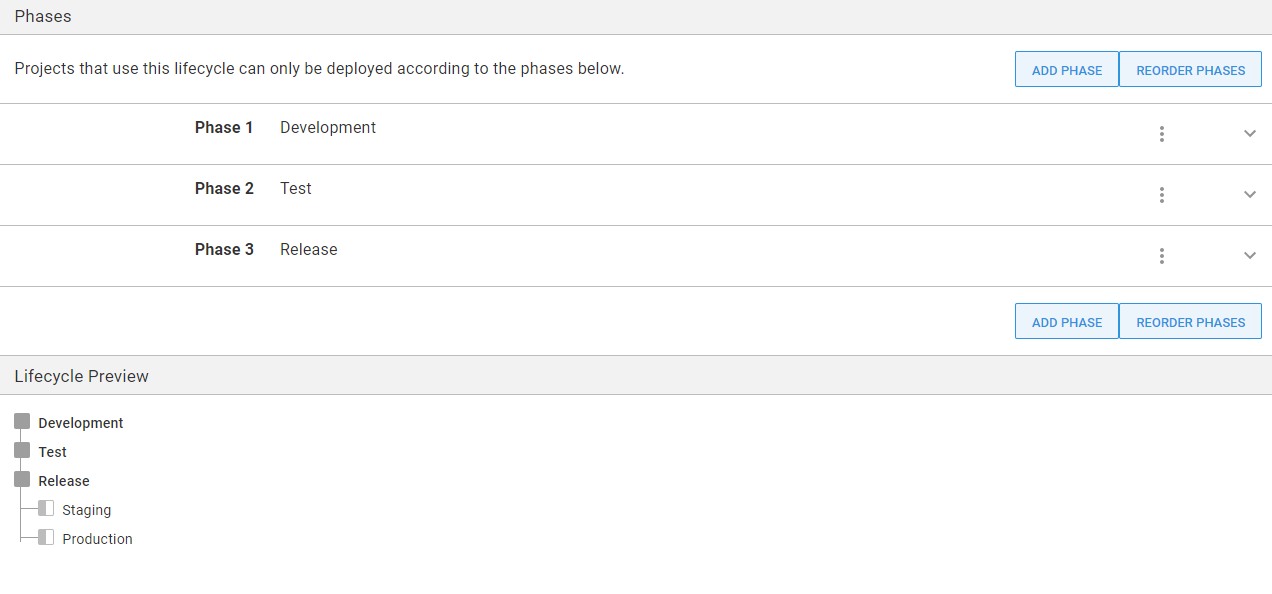
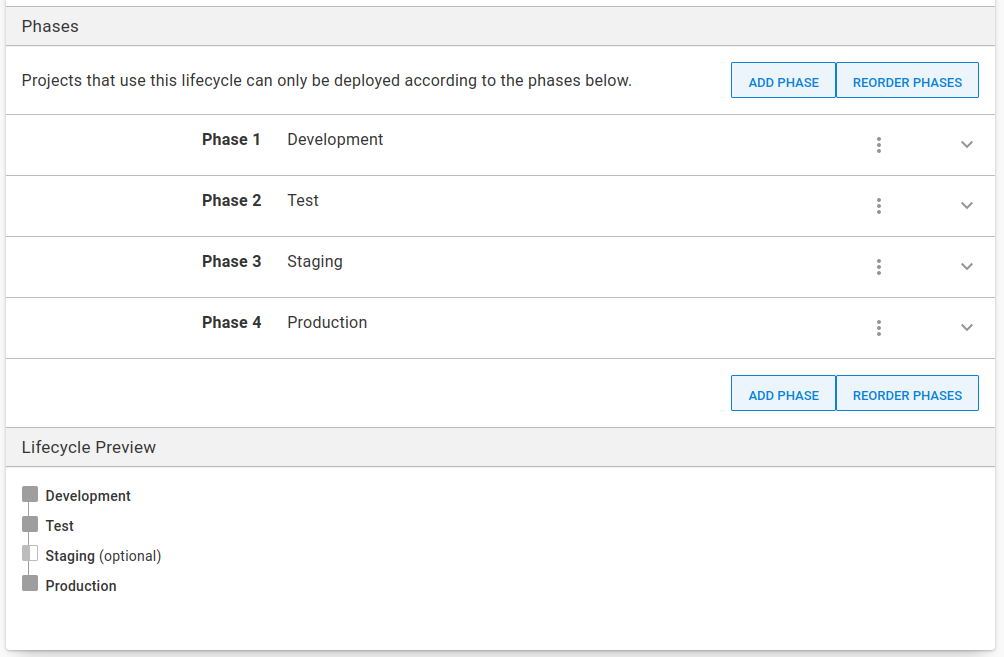
line edits

diff --git a/docs/tenants/guides/multi-tenant-saas-application/creating-new-project.md b/docs/tenants/guides/multi-tenant-saas-application/creating-new-project.md
@@ -1,19 +1,18 @@
 ---
 title: Creating the project
 description: Create the project used as part of a multi-tenant SaaS setup in Octopus Deploy.
-position: 30
+position: 20
 hideInThisSectionHeader: true
 ---
 
-The first step in this guide is to create a project that will be deployed to our tenants.
+In this section, we need to create a new project that will be deployed to our tenants.
 
 !include <tenants-create-project>
 
-Next, you need to make sure the project has [tenanted deployments](/docs/tenants/tenant-creation/tenanted-deployments.md) enabled
+3. Next, you need to make sure the project has [tenanted deployments](/docs/tenants/tenant-creation/tenanted-deployments.md) enabled
 
     ![](images/enable-tenanted-deployments.png "width=500")
 
+In the next step, we'll define the [Tenant Tag Set](/docs/tenants/guides/multi-tenant-saas-application/creating-tenant-tag-set.md) needed for this scenario.
 
-The next step will define the [Tenant tag set](/docs/tenants/guides/multi-tenant-saas-application/creating-new-project.md) needed for this scenario.
-
-<span><a class="btn btn-secondary" href="/docs/tenants/guides/creating-new-lifecycle">Previous</a></span>&nbsp;&nbsp;&nbsp;&nbsp;&nbsp;<span><a class="btn btn-success" href="/docs/tenants/guides/multi-tenant-saas-application/creating-project-template-variables.md">Next</a></span>
+<span><a class="btn btn-secondary" href="/docs/tenants/guides/creating-new-lifecycle">Previous</a></span>&nbsp;&nbsp;&nbsp;&nbsp;&nbsp;<span><a class="btn btn-success" href="/docs/tenants/guides/multi-tenant-saas-application/creating-tenant-tag-set">Next</a></span>

diff --git a/docs/tenants/guides/multi-tenant-saas-application/creating-new-tenants.md b/docs/tenants/guides/multi-tenant-saas-application/creating-new-tenants.md
@@ -1,11 +1,11 @@
 ---
 title: Creating new tenants
 description: Create tenants as part of a multi-tenant SaaS setup in Octopus Deploy.
-position: 50
+position: 40
 hideInThisSectionHeader: true
 ---
 
-Vet Clinic has four customers; an internal customer used for development and testing, and three external customers
+Vet Clinic has four customers; one internal customer used for development and testing, and three external customers
 
 - VetClinic Internal
 - Capital Animal Hospital
@@ -30,6 +30,6 @@ In the tenant overview, Click on **MANAGE TAGS** to edit which tags are associat
 
 Repeat this process for each of the tenants. 
 
-The next section covers the [Creating Template Variables](/docs/tenants/guides/multi-tenant-saas-application/creating-project-template-variables.md) needed for this scenario.
+The next step will define the [project template variables](/docs/tenants/guides/multi-tenant-saas-application/creating-project-template-variables.md) needed for the application.
 
-<span><a class="btn btn-secondary" href="/docs/tenants/guides/multi-tenant-saas-application/creating-tenant-tag-set">Previous</a></span>&nbsp;&nbsp;&nbsp;&nbsp;&nbsp;<span><a class="btn btn-success" href="/docs/tenants/guides/multi-tenant-saas-application/creating-project-template-variables.md">Next</a></span>
+<span><a class="btn btn-secondary" href="/docs/tenants/guides/multi-tenant-saas-application/creating-new-tenants">Previous</a></span>&nbsp;&nbsp;&nbsp;&nbsp;&nbsp;<span><a class="btn btn-success" href="/docs/tenants/guides/multi-tenant-saas-application/creating-project-template-variables">Next</a></span>

diff --git a/docs/tenants/guides/multi-tenant-saas-application/creating-new-lifecycle.md b/docs/tenants/guides/multi-tenant-saas-application/creating-new-lifecycle.md
@@ -1,19 +1,21 @@
 ---
 title: Creating a lifecycle
 description: Create lifecycle for SAAS application
-position: 20
+position: 10
 hideInThisSectionHeader: true
 ---
 
-In this section, we need to create a new [lifecycle](https://octopus.com/docs/releases/lifecycles) for our project.
+The first step in this guide is to create a new [lifecycle](https://octopus.com/docs/releases/lifecycles) for our project.
 
-To create Tenant Tags Sets navigate to **{{Library, Lifecycles, ADD LIFECYCLE}}**.
+To create a new Lifecycle, navigate to **{{Library, Lifecycles, ADD LIFECYCLE}}**.
 
-![](images/add-new-life-cycle.png "width=500")
+![](images/add-new-lifecycle.png "width=500")
 
 
-Give the **Lifecycle** a name, an optional description, and three phases. The lifecycle should ensure all release are deployed to development, test, then optionally to staging or into production. 
+Give the **Lifecycle** a name, an optional description, and four phases. The lifecycle should ensure all releases are deployed to Development, Test, *optionally* to Staging, then lastly into Production. 
 
 ![](images/creating-lifecycle.png "width=500") 
+
+In the next step, we'll [create the project](/docs/tenants/guides/multi-tenant-saas-application/creating-new-tenants.md) needed for this scenario.
 
 <span><a class="btn btn-secondary" href="/docs/tenants/guides/multi-tenant-saas-application">Previous</a></span>&nbsp;&nbsp;&nbsp;&nbsp;&nbsp;<span><a class="btn btn-success" href="/docs/tenants/guides/multi-tenant-saas-application/creating-new-project">Next</a></span>

diff --git a/docs/tenants/guides/multi-tenant-saas-application/creating-project-template-variables.md b/docs/tenants/guides/multi-tenant-saas-application/creating-project-template-variables.md
@@ -1,14 +1,13 @@
 ---
 title: Creating project template variables
 description: Create varibales for each tenant
-position: 30
+position: 50
 hideInThisSectionHeader: true
 ---
 
+Each customer has there own database and a unique name for everthing environment. To make this managable we can create [project template variables](/docs/tenants/tenant-variables.md#project-variables) for the database name.
 
-Each Customer has there own database and a unique name for everthing environment. To make this managable we can  [create project template variables](/docs/tenants/tenant-variables.md) for the database name.
-
-To create Project Template Variables navigate to **{{Projects, Projects, Variables, ADD TEMPLATE }}**.
+To create a Project Template navigate to **{{Projects, Projects, Variables, ADD TEMPLATE }}**.
 
 ![](images/creating-new-project-variable-templates.png "width=500")
 
@@ -17,5 +16,6 @@ Next, add a variable name, label, help text, control type and an optional Defaul
 
 ![](images/add-new-project-variable-template.png "width=500")
 
+The next step will define the [Tenant tag set](/docs/tenants/guides/multi-tenant-saas-application/creating-new-project.md) needed for this guide.
 
 <span><a class="btn btn-secondary" href="/docs/tenants/guides/multi-tenant-saas-application/creating-new-project">Previous</a></span>&nbsp;&nbsp;&nbsp;&nbsp;&nbsp;<span><a class="btn btn-success" href="/docs/tenants/guides/multi-tenant-saas-application/creating-tenant-tag-set">Next</a></span>

diff --git a/docs/tenants/guides/multi-tenant-saas-application/creating-tenant-tag-set.md b/docs/tenants/guides/multi-tenant-saas-application/creating-tenant-tag-set.md
@@ -1,7 +1,7 @@
 ---
 title: Creating new tenant tags
 description: Create tenant tags as part of a multi-tenant SaaS setup in Octopus Deploy.
-position: 40
+position: 30
 hideInThisSectionHeader: true
 ---
 
@@ -23,4 +23,4 @@ Give the **Tag Set** a name, an optional description, and create some Tags.  For
 
 In the next step, we'll [create the tenants](/docs/tenants/guides/multi-tenant-saas-application/creating-new-tenants.md) needed for this scenario.
 
-<span><a class="btn btn-secondary" href="/docs/tenants/guides/multi-tenant-saas-application/creating-tenant-tag-set">Previous</a></span>&nbsp;&nbsp;&nbsp;&nbsp;&nbsp;<span><a class="btn btn-success" href="/docs/tenants/guides/multi-tenant-saas-application/creating-new-tenants">Next</a></span>
+<span><a class="btn btn-secondary" href="/docs/tenants/guides/multi-tenant-saas-application/creating-new-project">Previous</a></span>&nbsp;&nbsp;&nbsp;&nbsp;&nbsp;<span><a class="btn btn-success" href="/docs/tenants/guides/multi-tenant-saas-application/creating-new-tenants">Next</a></span>

diff --git a/docs/tenants/guides/multi-tenant-saas-application/index.md b/docs/tenants/guides/multi-tenant-saas-application/index.md
@@ -14,15 +14,8 @@ There are some resources assumed already setup in Octopus inlcuding
 ) runbook guide to set up Azure Web App Services for each of the environments. 
 
 
-<span><a class="btn btn-success" href="/docs/tenants/guides/multi-tenant-saas-application/creating-new-project">Get Started</a></span>
+<span><a class="btn btn-success" href="/docs/tenants/guides/multi-tenant-saas-application/creating-new-lifecycle">Get Started</a></span>
 
 ## Guide contents
 
 The following sections make up the guide:
-
-* Creating a new lifecycle
-* Creating a new project
-* Create Project template variables
-* Creating new Tenants
-* Creating new tenant tags 
-* Creating new Octopus infrastructure
